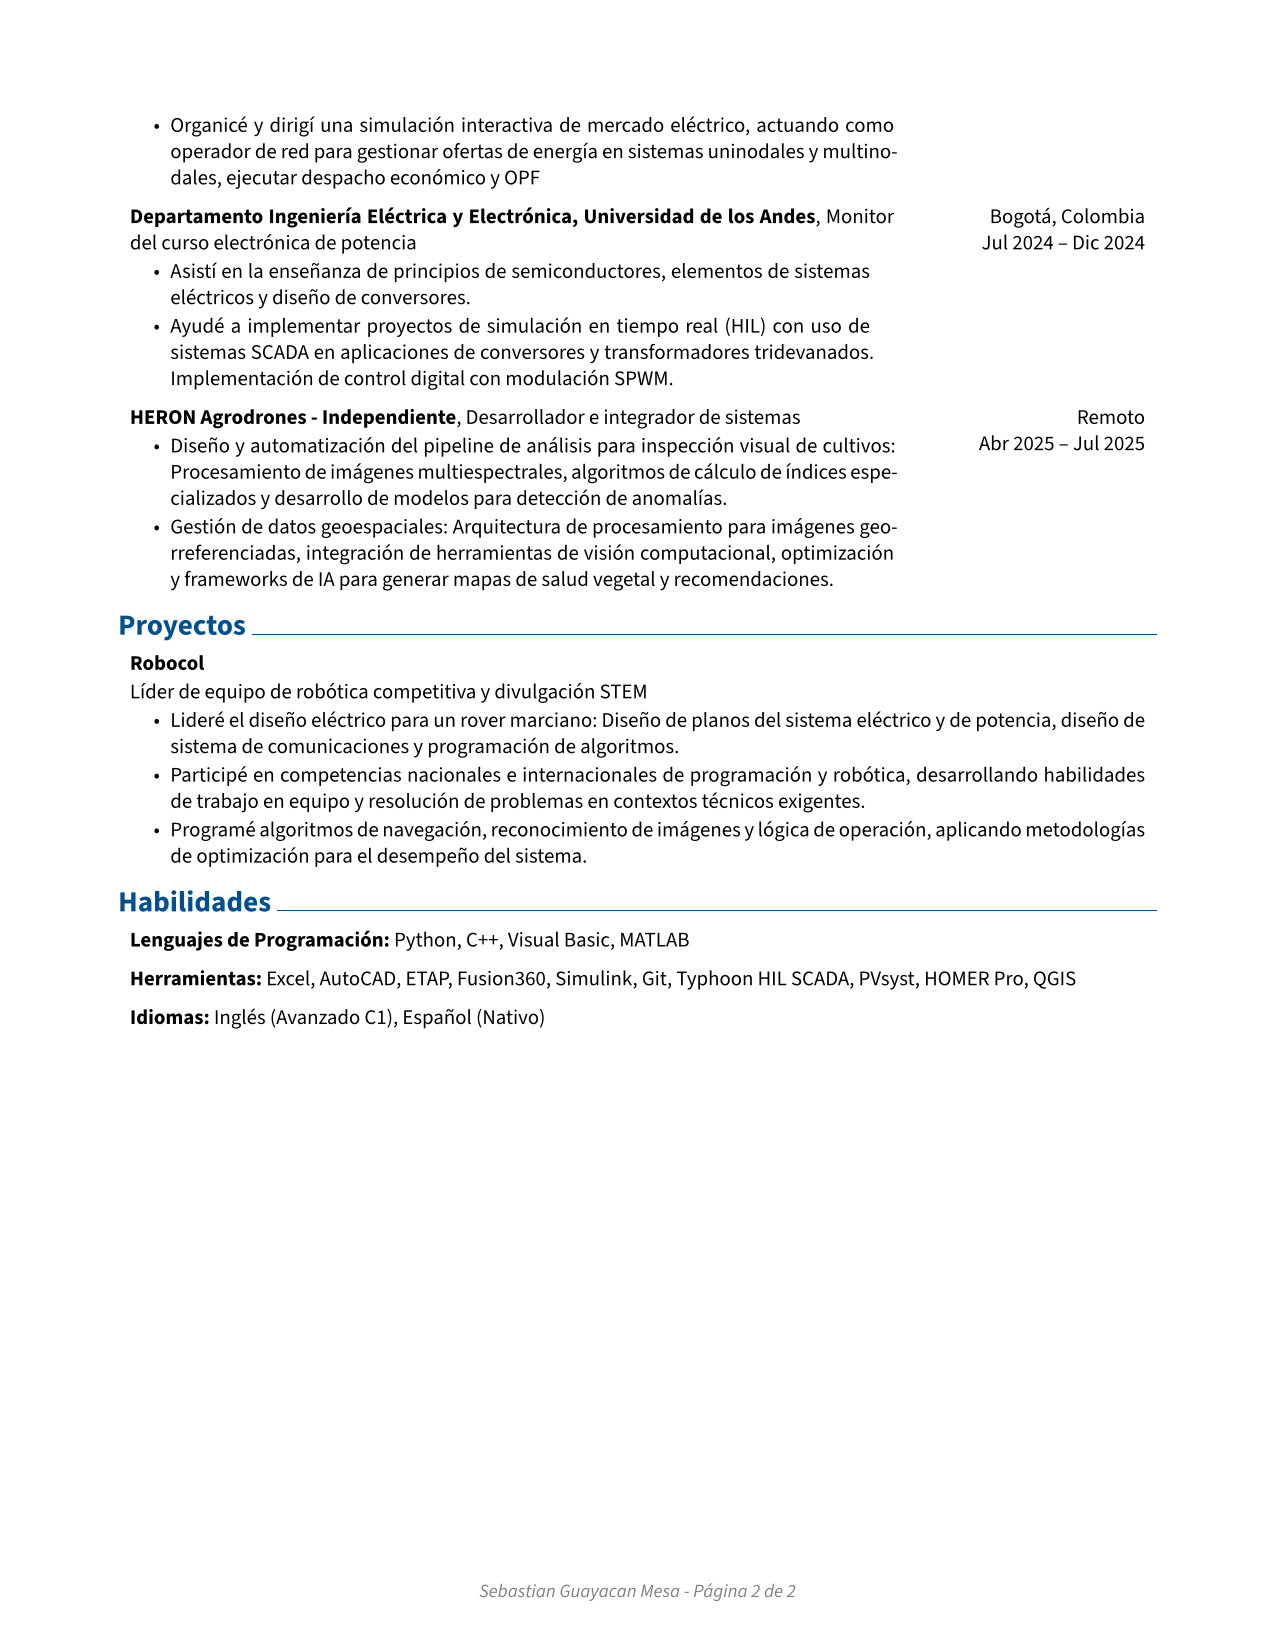
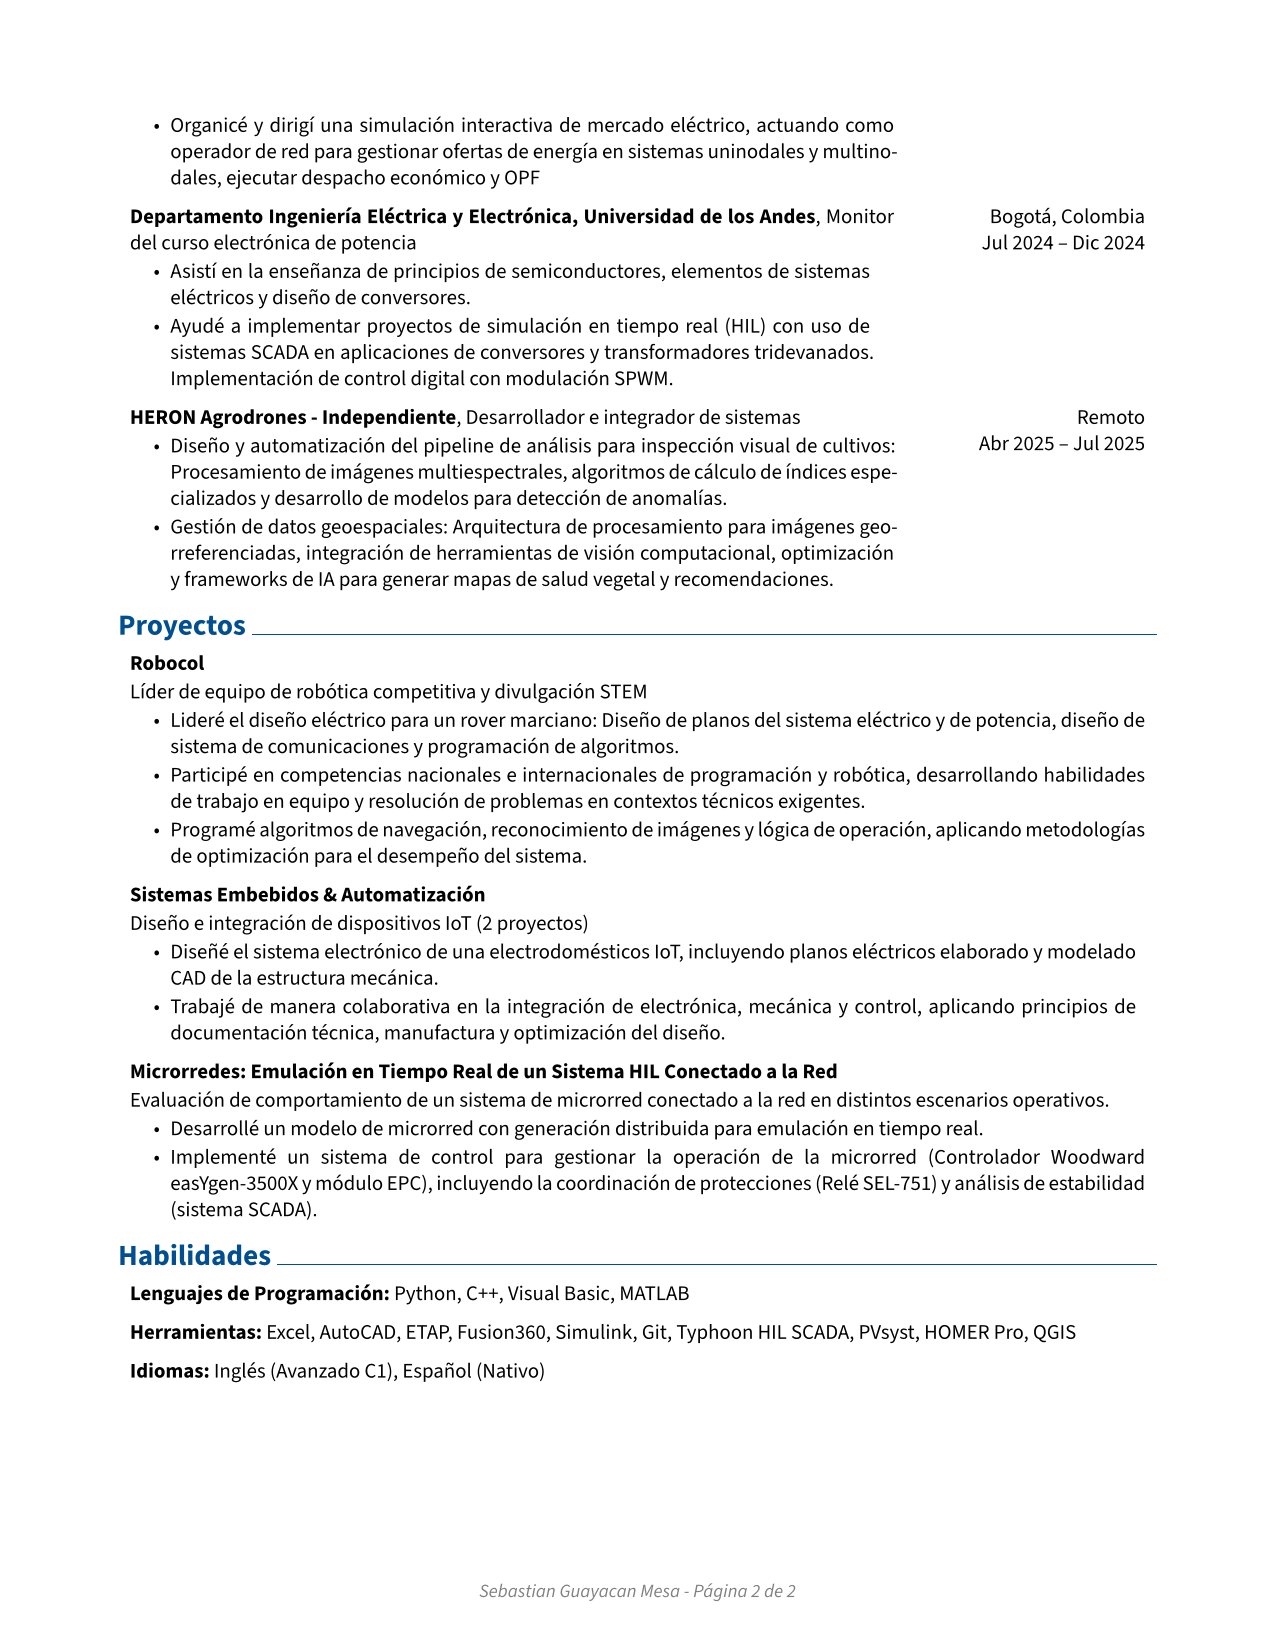
S&P

diff --git a/rendercv_output/Sebastian_Guayacan_Mesa_CV.html b/rendercv_output/Sebastian_Guayacan_Mesa_CV.html
@@ -109,6 +109,16 @@
         <li>Participé en competencias nacionales e internacionales de programación y robótica, desarrollando habilidades de trabajo en equipo y resolución de problemas en contextos técnicos exigentes.</li>
         <li>Programé algoritmos de navegación, reconocimiento de imágenes y lógica de operación, aplicando metodologías de optimización para el desempeño del sistema.</li>
         </ul>
+        <h2>Sistemas Embebidos &amp; Automatización</h2>
+        <ul>
+        <li>Diseñé el sistema electrónico de una electrodomésticos IoT, incluyendo planos eléctricos elaborado y modelado CAD de la estructura mecánica.</li>
+        <li>Trabajé de manera colaborativa en la integración de electrónica, mecánica y control, aplicando principios de documentación técnica, manufactura y optimización del diseño.</li>
+        </ul>
+        <h2>Microrredes: Emulación en Tiempo Real de un Sistema HIL Conectado a la Red</h2>
+        <ul>
+        <li>Desarrollé un modelo de microrred con generación distribuida para emulación en tiempo real.</li>
+        <li>Implementé un sistema de control para gestionar la operación de la microrred (Controlador Woodward easYgen-3500X y  módulo EPC), incluyendo la coordinación de protecciones (Relé SEL-751) y análisis de estabilidad (sistema SCADA).</li>
+        </ul>
         <h1>Habilidades</h1>
         <ul>
         <li>Lenguajes de Programación: Python, C++, Visual Basic, MATLAB</li>

diff --git a/rendercv_output/Sebastian_Guayacan_Mesa_CV.md b/rendercv_output/Sebastian_Guayacan_Mesa_CV.md
@@ -77,6 +77,16 @@ Motivado por aplicar mis conocimientos en ingeniería y análisis de datos para 
 - Participé en competencias nacionales e internacionales de programación y robótica, desarrollando habilidades de trabajo en equipo y resolución de problemas en contextos técnicos exigentes.
 - Programé algoritmos de navegación, reconocimiento de imágenes y lógica de operación, aplicando metodologías de optimización para el desempeño del sistema.
 
+## Sistemas Embebidos & Automatización
+
+- Diseñé el sistema electrónico de una electrodomésticos IoT, incluyendo planos eléctricos elaborado y modelado CAD de la estructura mecánica.
+- Trabajé de manera colaborativa en la integración de electrónica, mecánica y control, aplicando principios de documentación técnica, manufactura y optimización del diseño.
+
+## Microrredes: Emulación en Tiempo Real de un Sistema HIL Conectado a la Red
+
+- Desarrollé un modelo de microrred con generación distribuida para emulación en tiempo real.
+- Implementé un sistema de control para gestionar la operación de la microrred (Controlador Woodward easYgen-3500X y  módulo EPC), incluyendo la coordinación de protecciones (Relé SEL-751) y análisis de estabilidad (sistema SCADA).
+
 # Habilidades
 
 - Lenguajes de Programación: Python, C++, Visual Basic, MATLAB
